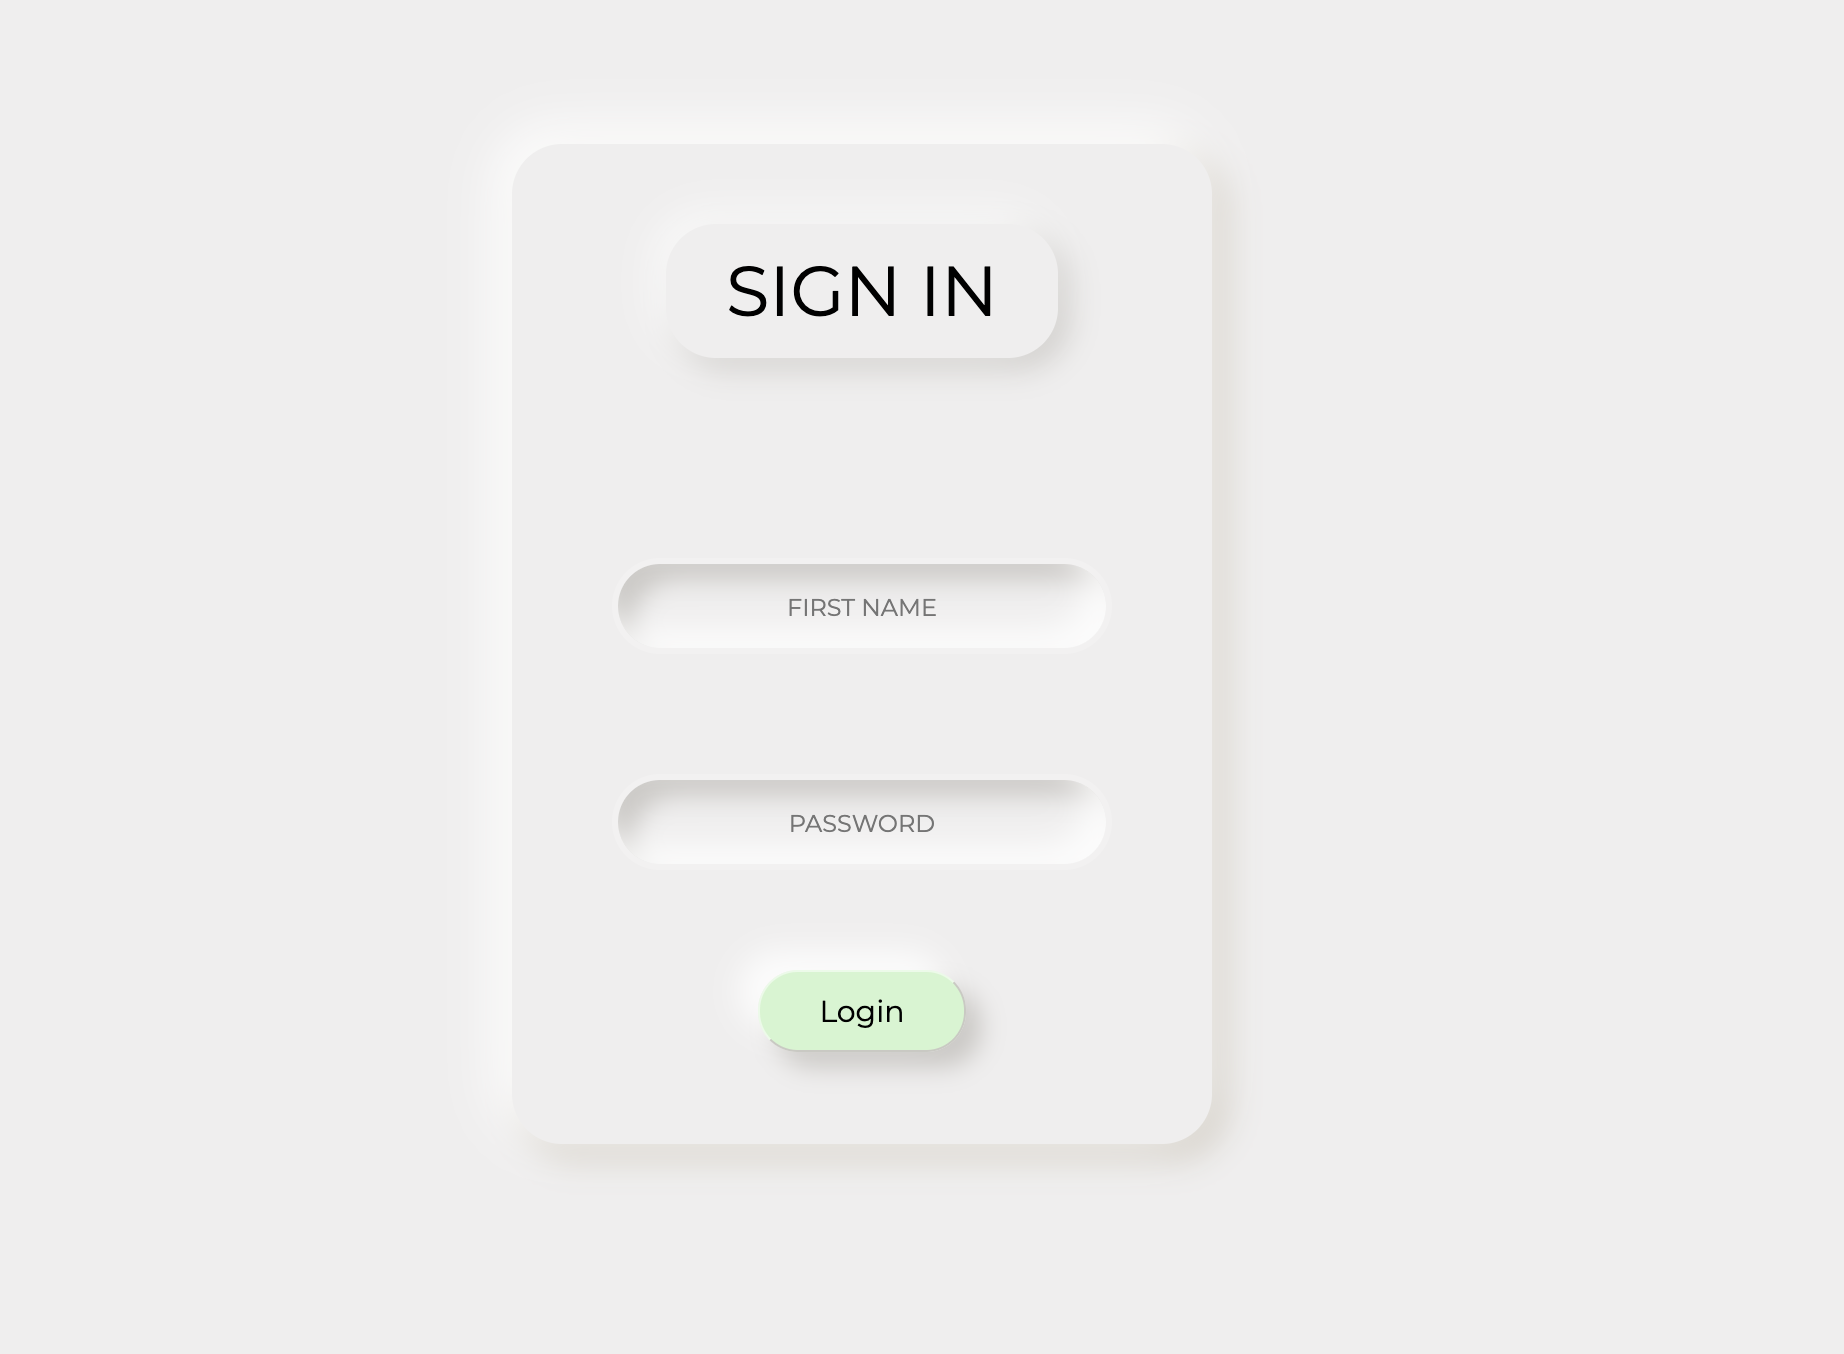
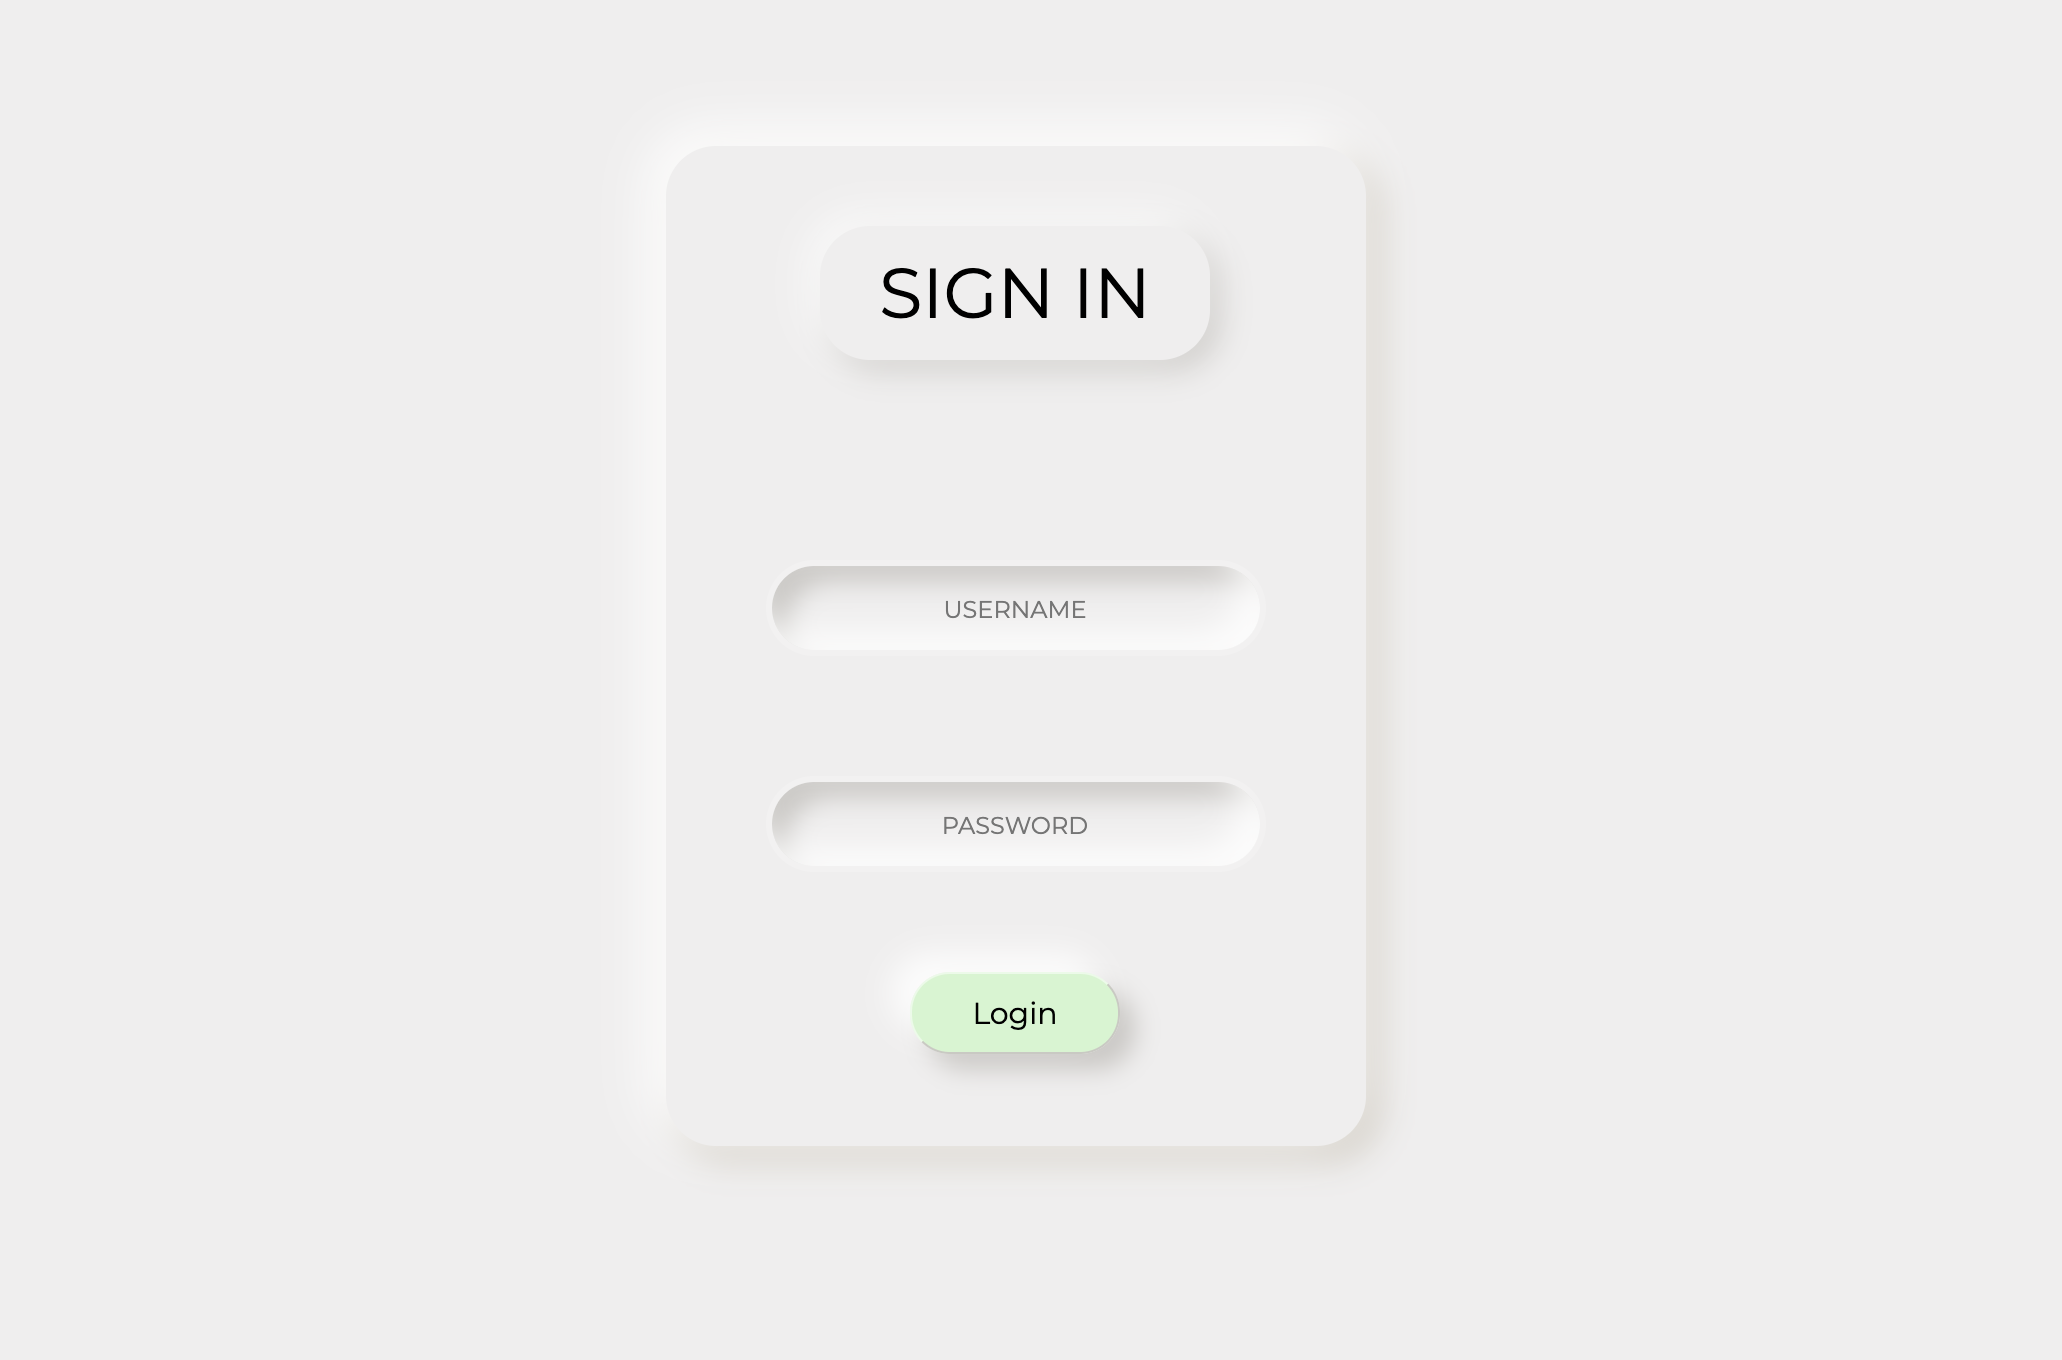
fix error

diff --git a/index.html b/index.html
@@ -13,7 +13,7 @@
         <form action="">
             <h1>Sign In</h1>
             <label for="username"></label>
-            <input type="text" name="username" id="username" placeholder="First Name" required class="form-input" />
+            <input type="text" name="username" id="username" placeholder="Username" required class="form-input" />
             <label for="password"></label>
             <input type="text" name="password" id="password" placeholder="Password" required class="form-input" />
             <button class="login" type="submit">Login</button>
